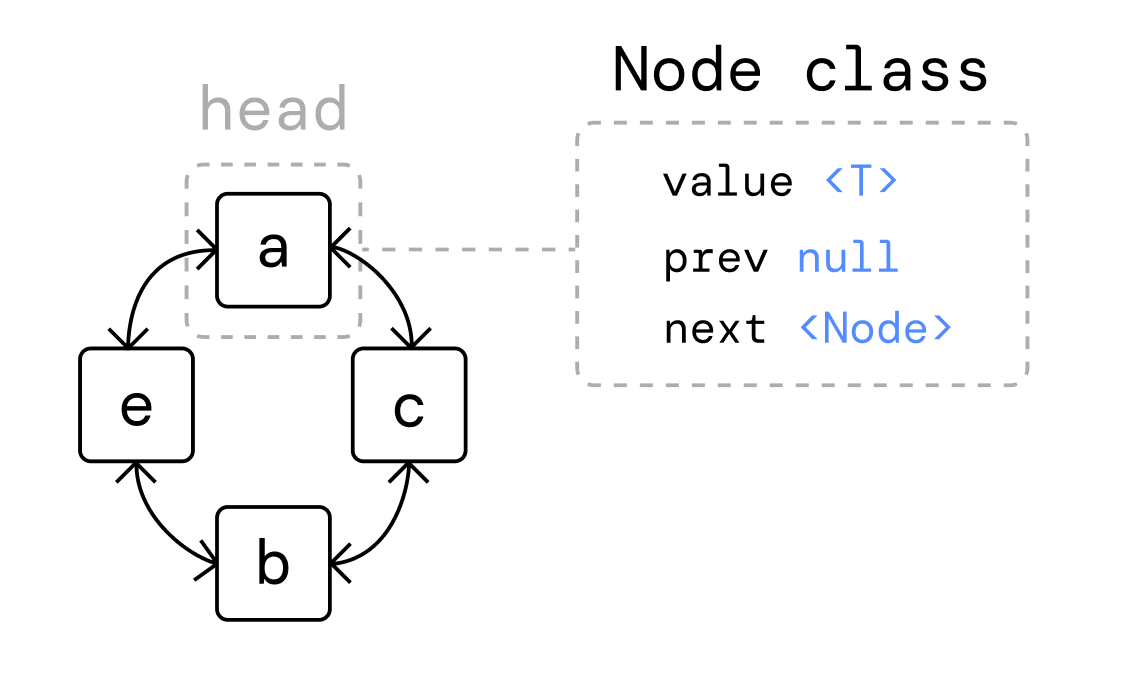
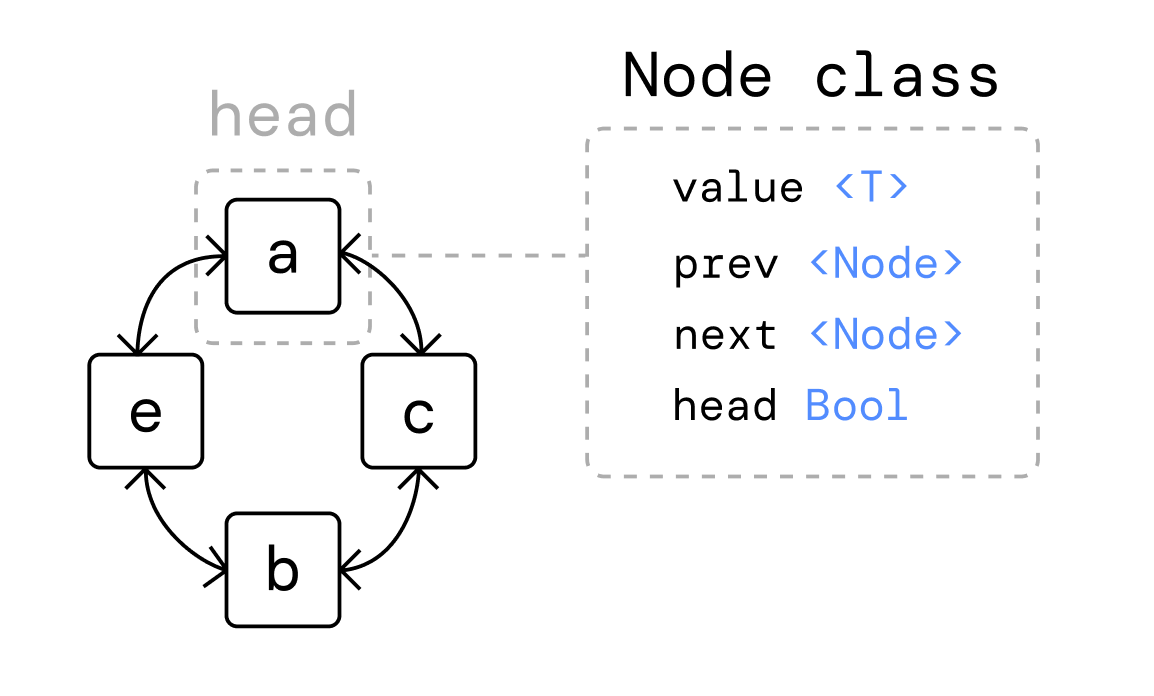
[FT] Added Linked list post operations types

diff --git a/posts/linked-list.md b/posts/linked-list.md
@@ -22,22 +22,41 @@ As you can see, each node has a value and a pointer to the next node. The last n
 
 There are four key types of linked lists:
 
-- Singly linked list: Each node contains only one pointer to the next node. 
+- __Singly linked list__: Each node contains only one pointer to the next node. 
 
 ![Linked list](/posts/linked-list/singly-linked-list.png)
 
-- Doubly linked list: Each node contains two pointers, a pointer to the next node and a pointer to the previous node.
+- __Doubly linked list__: Each node contains two pointers, a pointer to the next node and a pointer to the previous node.
 
 ![Linked list](/posts/linked-list/doubly-linked-list.png)
 
-- Circular singly linked list: Each node contains only one pointer to the next node. The last node points to the first node.
+- __Circular singly linked list__: Each node contains only one pointer to the next node. The last node points to the first node.
 
 ![Linked list](/posts/linked-list/circular-linked-list.png)
 
-- Circular doubly linked list: Each node contains two pointers, a pointer to the next node and a pointer to the previous node. The last node points to the first node.
+- __Circular doubly linked list__: Each node contains two pointers, a pointer to the next node and a pointer to the previous node. The last node points to the first node. This type of linked list requires a head attribute on the Node type to keep track of the first node.
 
 ![Linked list](/posts/linked-list/circular-doubly-linked-list.png)
 
-# Why we would use a linked list?
+# Linked list operations
+There are a few operations that we can perform on a linked list. The operations are:
 
-Linked lists are used to implement many things. For example, the browser history is possible thanks to linked lists.
+- __Insertion__: Adds an element at the beginning of the list.
+- __Deletion__: Deletes an element at the beginning of the list.
+- __Traversal__: Acces each element of the list.
+- __Search__: Search for an element in the list.
+- __Update__: Update the value of an element in the list.
+- __Sort__: Sort the list. (This is not a trivial operation because the type of the Node value can be anything, so we can't just use a sorting algorithm to sort the list.)
+
+# Linked list implementations
+Let's implement our own linked list in JavaScript. We can acces the code in this [Github repository](https://github.com/noreplydev/linked-list).
+
+# Singly linked list
+Okay so let's remind ourselves what a singly linked list looks like. As we see in the image below, each node has a value and a pointer to the next node. The last node has a pointer to null, which means that it is the last node in the list. So lets create a Node class that implements this attributes.
+
+![Linked list](/posts/linked-list/singly-linked-list.png)
+
+### Node class
+First, we need to create a Node class. This class will represent each node in the linked list. 
+
+```javascript
